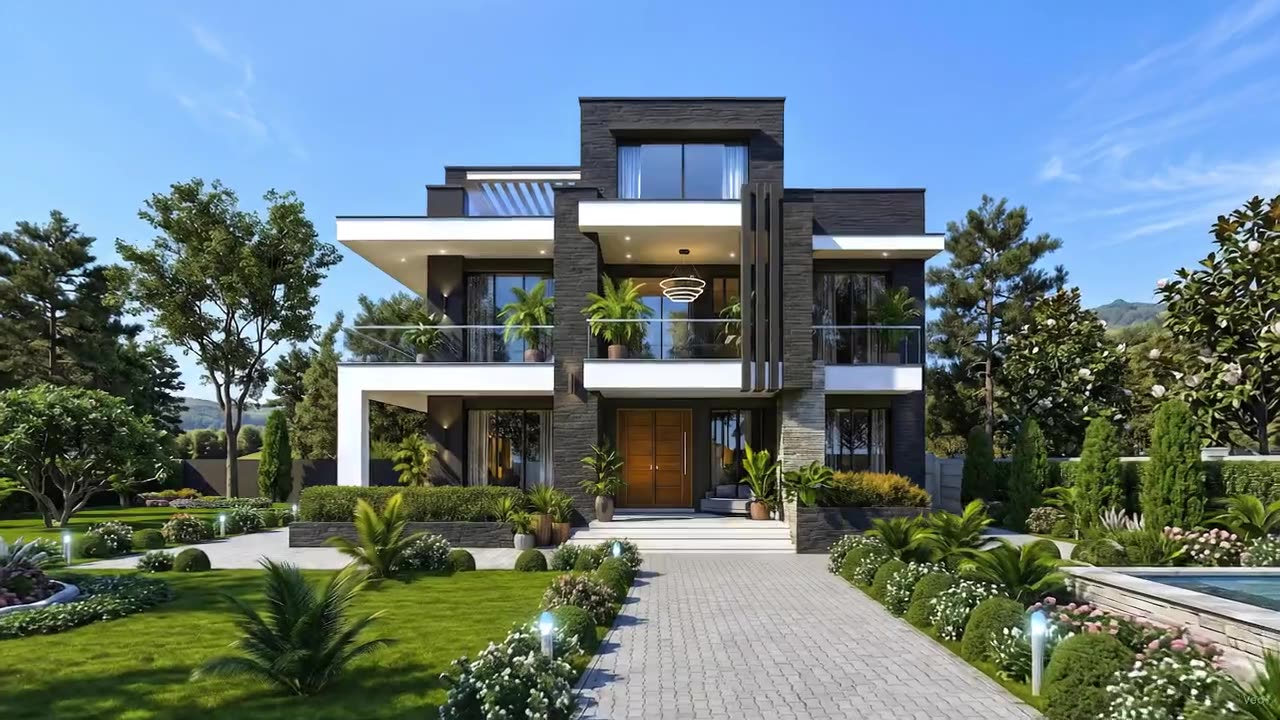
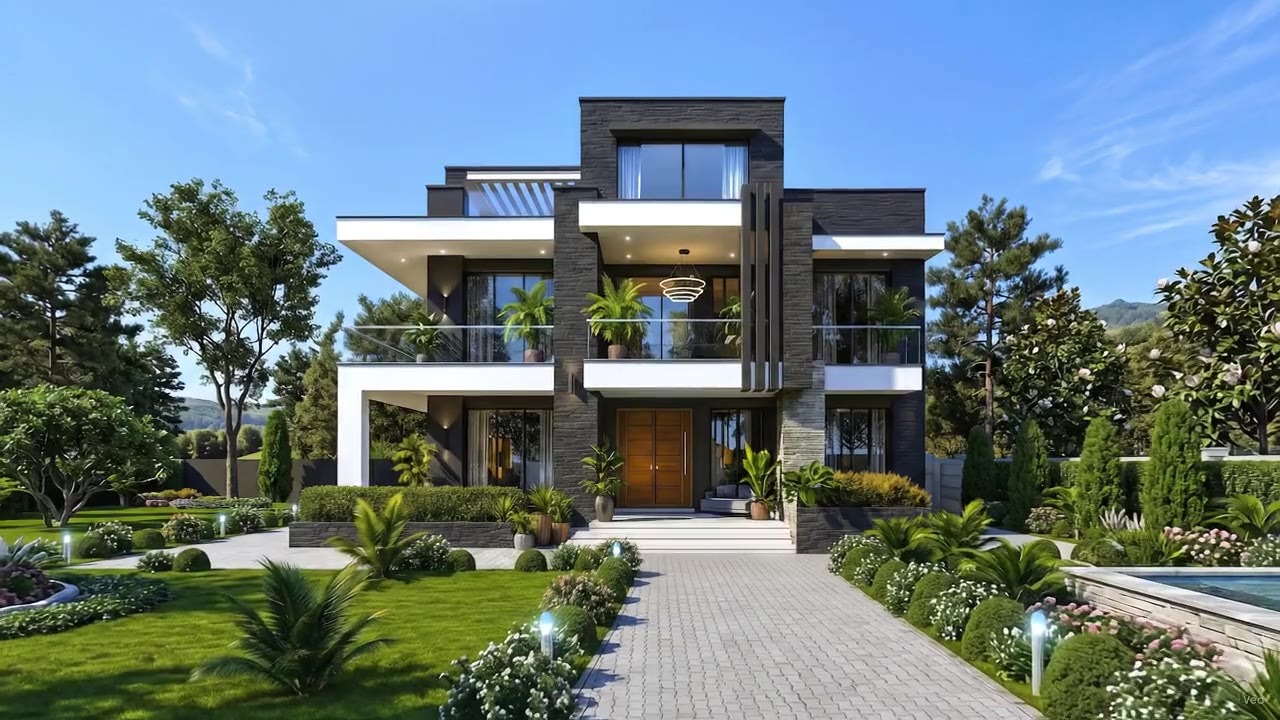
Higher-quality videos (CRF25 from source) + legible mobile contact form

Changed region(s): [[0.875, 0.9167, 0.9375, 0.9778], [0.9688, 0.9472, 1.0, 0.9778], [0.9375, 0.9778, 0.9688, 1.0]]

diff --git a/index.html b/index.html
@@ -643,10 +643,23 @@ a.cf-d-value:hover { color: rgba(255,255,255,0.78); }
 }
 .cf-submit:hover { transform: translateY(-2px); background: rgba(255,255,255,0.88); }
 @media (max-width: 760px) {
-  #contact-form { padding-top: 6rem; }
-  #contact-form .cf-card { padding: 2rem 1.6rem; }
-  .cf-grid { grid-template-columns: 1fr; gap: 1.8rem; }
-  .cf-lead { margin-bottom: 1.4rem; }
+  #contact-form { padding: 5.5rem 1rem 2rem; align-items: center; }
+  /* On phones the transparent glass over the bright video is unreadable — give the
+     card a dark frosted backdrop so every field is clearly legible. */
+  #contact-form .cf-card {
+    padding: 1.8rem 1.4rem;
+    background: linear-gradient(180deg, rgba(12,12,16,0.66), rgba(12,12,16,0.78));
+    backdrop-filter: blur(18px) saturate(140%); -webkit-backdrop-filter: blur(18px) saturate(140%);
+    box-shadow: 0 40px 90px rgba(0,0,0,0.5);
+  }
+  .cf-grid { grid-template-columns: 1fr; gap: 1.2rem; }
+  .cf-lead { display: none; }            /* save vertical space on phones */
+  .cf-globe-wrap { display: none; }      /* decorative globe — hide on phones */
+  .cf-right { gap: 0.6rem; align-items: flex-start; }
+  .cf-loc { text-align: left; }
+  .cf-form { gap: 0.95rem; }
+  .cf-field textarea { min-height: 48px; }
+  .cf-title { font-size: 2rem; }
 }
 
 /* ===================== FOOTER ===================== */